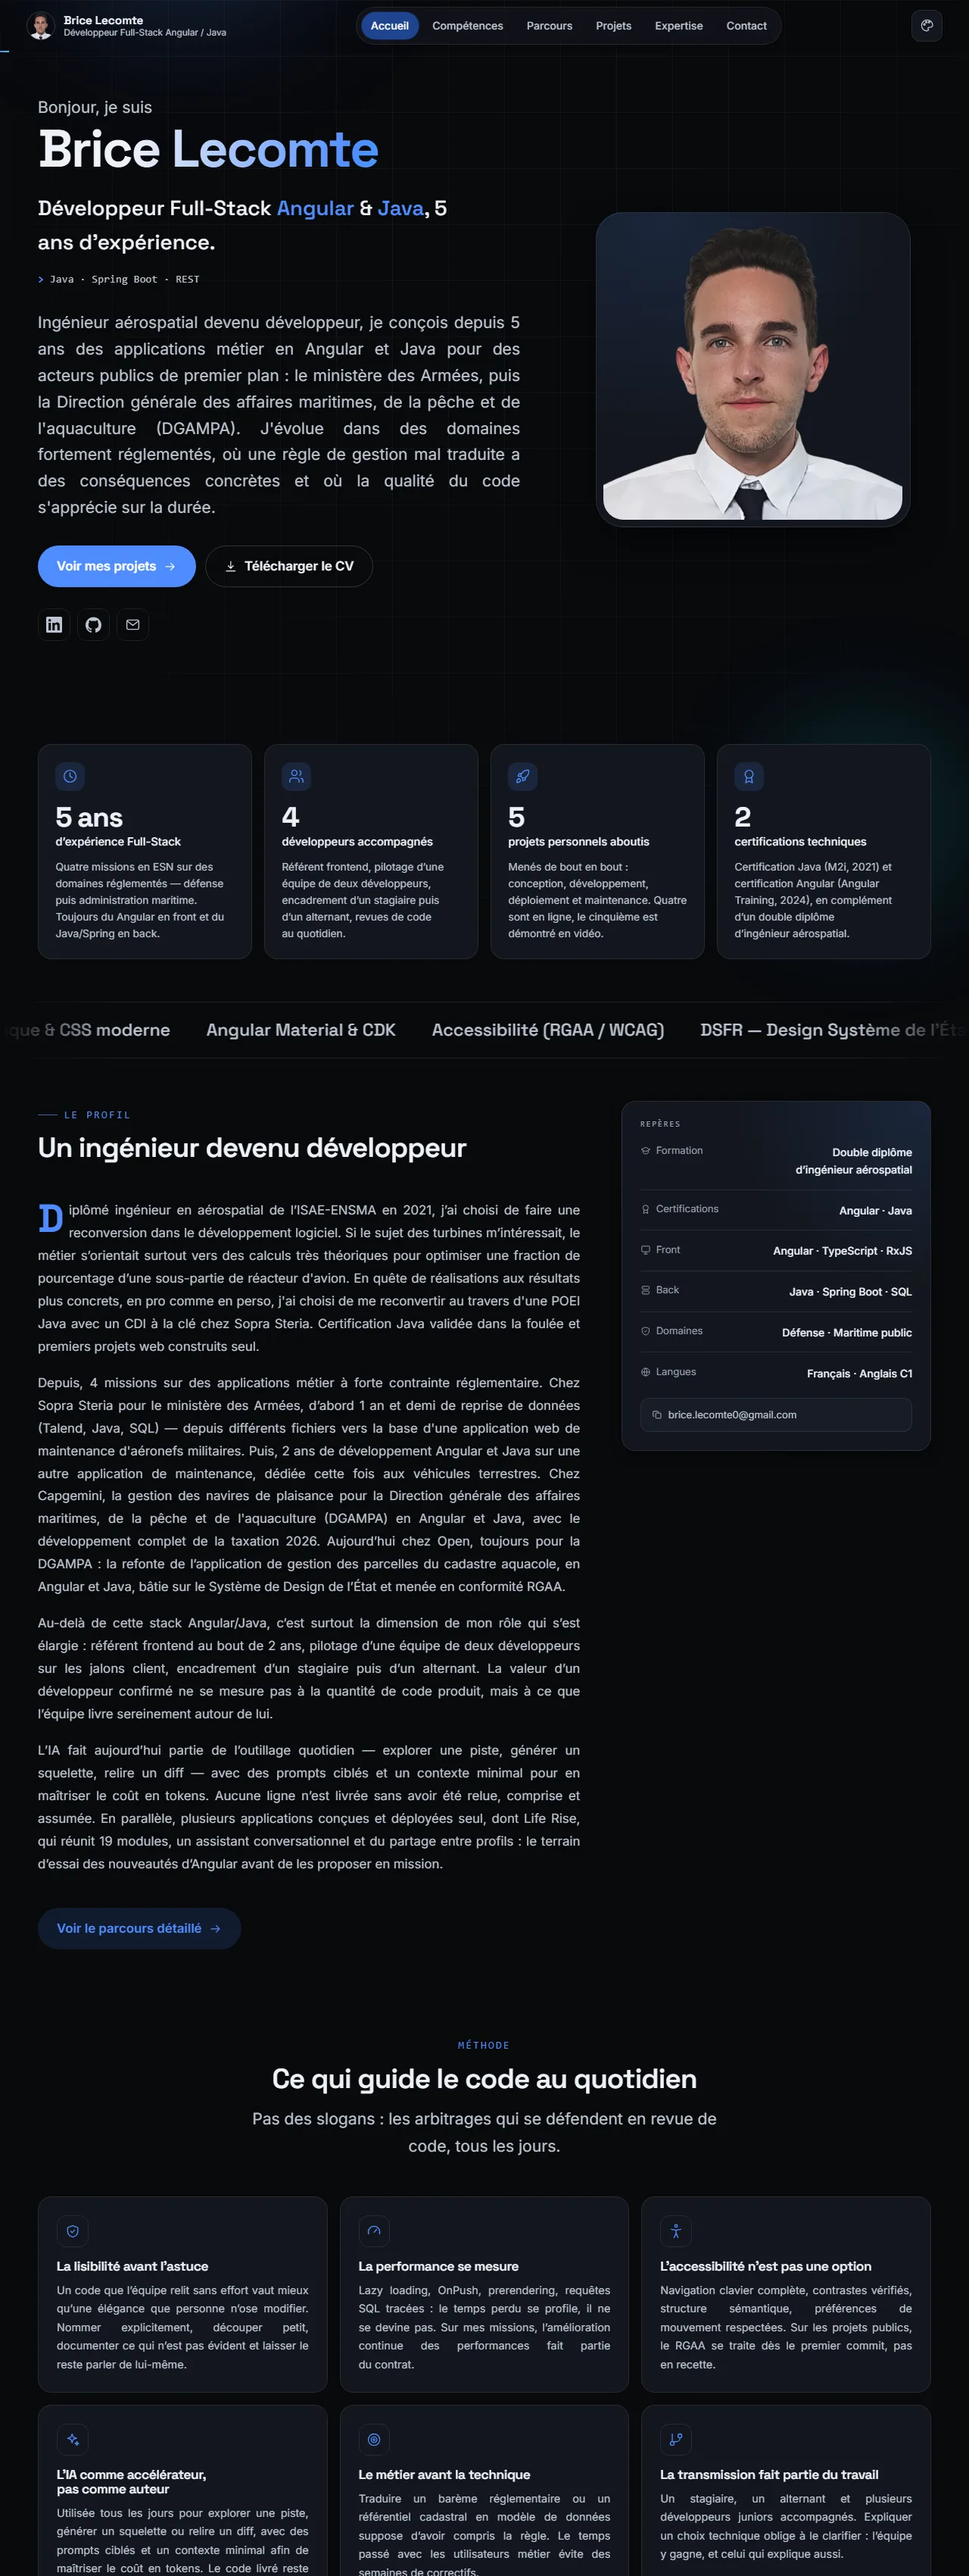
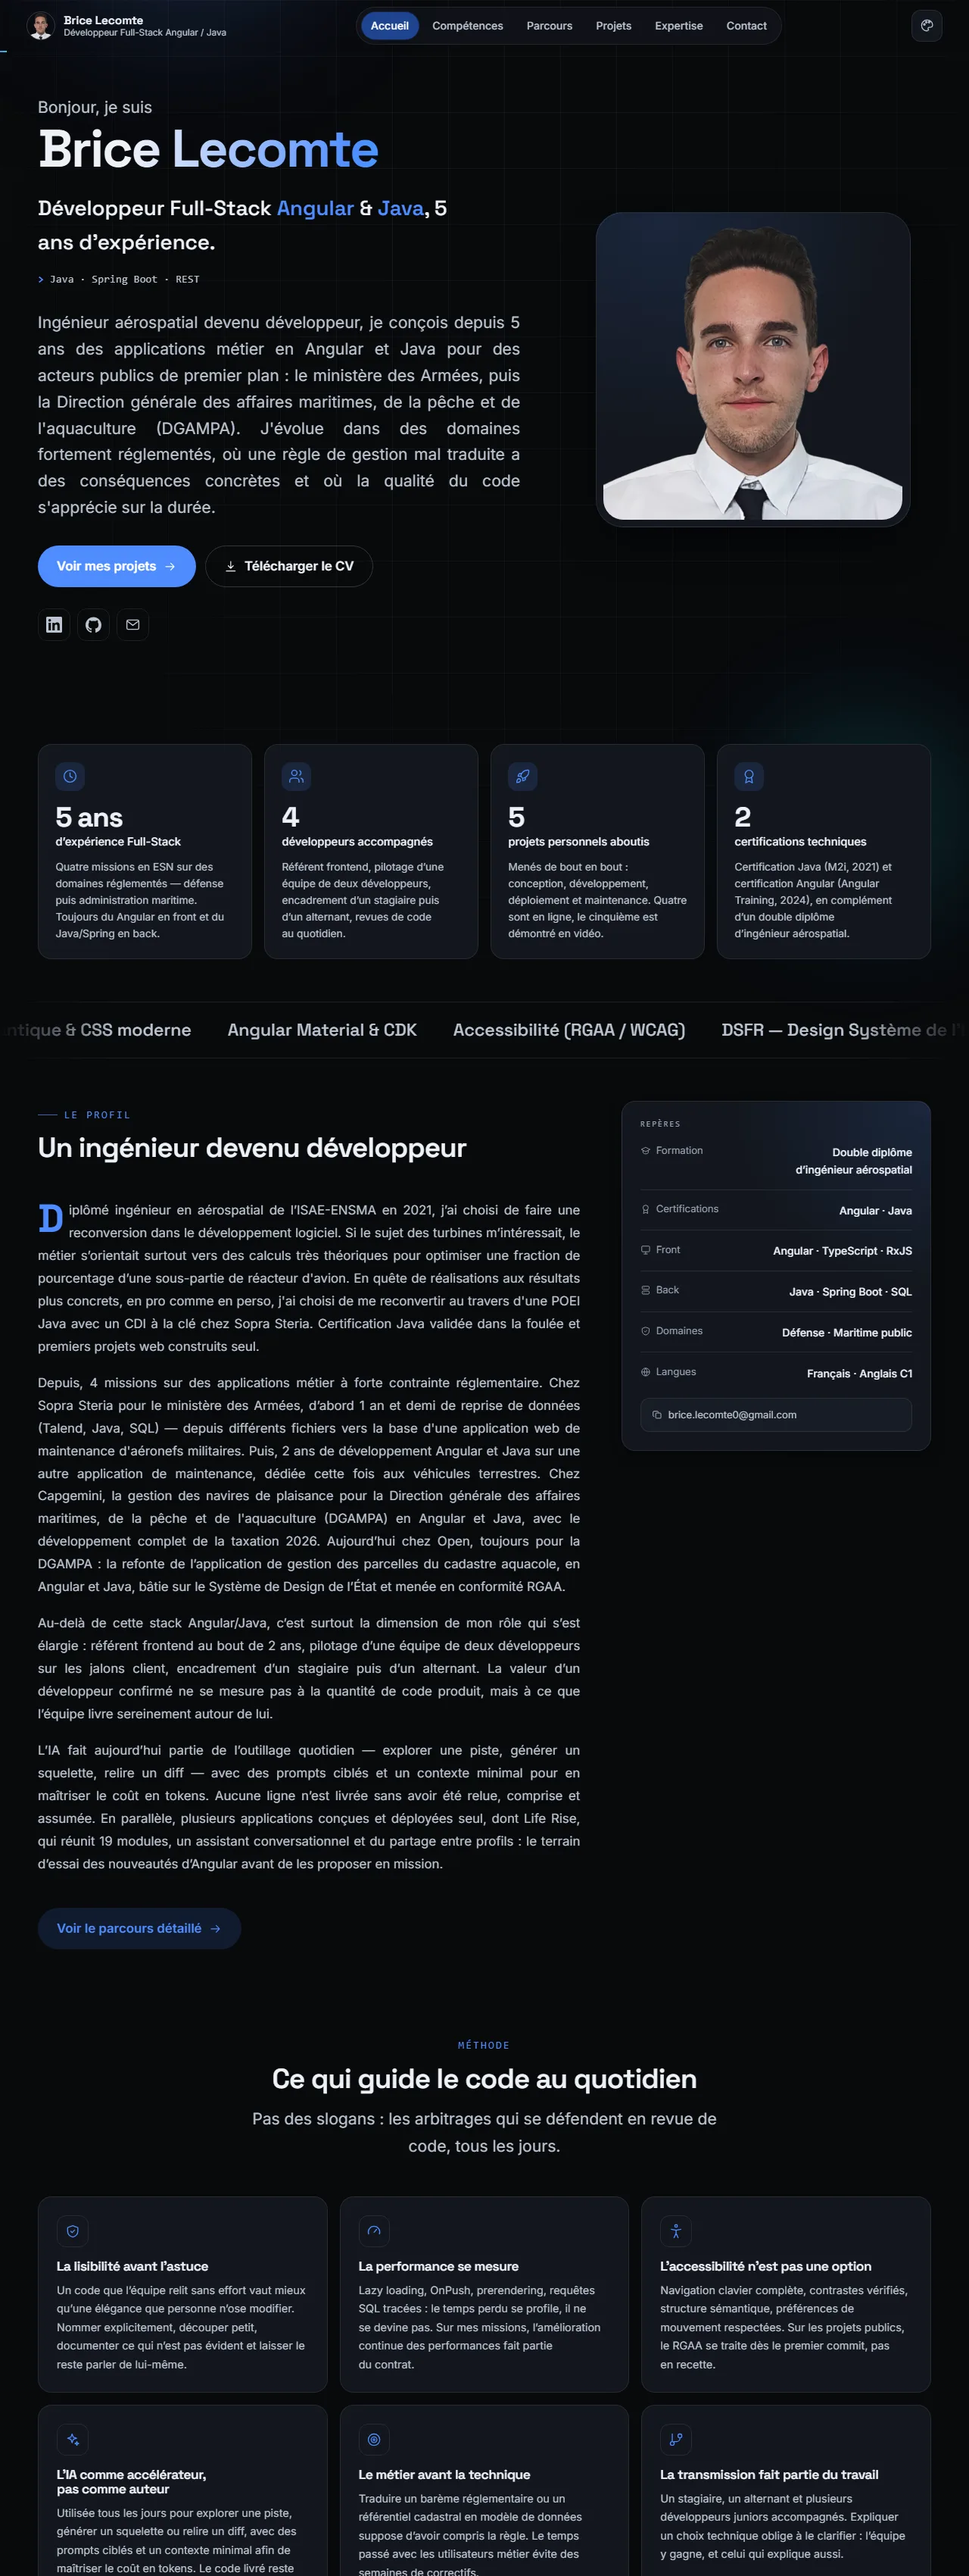
Rend les descriptions de compétences lisibles par un non-technicien
Chaque note commence désormais par ce que la technologie fait, en
français courant, avant d'énumérer les mots-clés que recherche un
lecteur technique. Les intitulés des familles suivent la même logique.
La longueur reste comparable : la page ne gagne qu'une cinquantaine
de pixels.

Corrige au passage une justification appliquée trop largement : dans
les cartes étroites — convictions, pratiques, bagage, expertise — elle
creusait des rivières. Elle ne subsiste que sur les colonnes de prose
assez larges pour la supporter.

diff --git a/src/app/shared/data/skills.ts b/src/app/shared/data/skills.ts
@@ -6,42 +6,42 @@ export const skillGroups: SkillGroup[] = [
     title: 'Frontend',
     icon: 'monitor',
     description:
-      'Mon terrain principal. Angular depuis la version 12, suivi de près à chaque montée de version majeure : standalone components, signals, control flow, zoneless.',
+      'Tout ce que l’utilisateur voit et manipule dans son navigateur. Angular depuis sa version 12, suivi à chaque montée de version majeure : standalone components, signals, control flow, zoneless.',
     skills: [
       {
         name: 'Angular',
         level: 95,
-        note: 'Architecture par features, lazy loading, standalone components, signals, formulaires réactifs typés, stratégie OnPush systématique, SSR et prerendering.',
+        note: 'Le socle de toutes les interfaces que je livre : application découpée en modules chargés à la demande, pages pré-générées pour un affichage immédiat, état géré finement. Lazy loading, standalone components, signals, formulaires typés, OnPush, SSR.',
       },
       {
         name: 'TypeScript',
         level: 92,
-        note: 'Mode strict activé partout, types utilitaires, génériques, discriminated unions. Je considère un `any` comme une dette à justifier.',
+        note: 'JavaScript avec un filet de sécurité : les erreurs de données apparaissent pendant l’écriture du code plutôt qu’en production. Mode strict partout, génériques, types utilitaires.',
       },
       {
         name: 'RxJS',
         level: 85,
-        note: 'Composition d’opérateurs, gestion des désabonnements, debounce et switchMap sur les recherches, interopérabilité avec les signals.',
+        note: 'La bibliothèque qui met de l’ordre dans tout ce qui arrive de façon décalée : réponse du serveur, saisie clavier, clic. Composition d’opérateurs, recherche temporisée, désabonnements maîtrisés.',
       },
       {
         name: 'HTML sémantique & CSS moderne',
         level: 90,
-        note: 'Grid et flexbox, custom properties, container queries, clamp fluide, animations CSS. Un balisage juste avant tout artifice.',
+        note: 'La structure et l’habillage des pages, écrits à la main. Un balisage qui décrit d’abord le sens du contenu, l’effet visuel ensuite. Grid, flexbox, variables CSS, container queries, animations.',
       },
       {
         name: 'Angular Material & CDK',
         level: 88,
-        note: 'Theming Material 3, tokens système, surcharge maîtrisée des composants, CDK pour l’overlay, le focus trap et la virtualisation.',
+        note: 'La bibliothèque de composants d’interface de Google, adaptée à la charte de chaque projet plutôt qu’utilisée telle quelle. Theming Material 3, surcharges maîtrisées, CDK pour l’overlay et le drag and drop.',
       },
       {
         name: 'Accessibilité (RGAA / WCAG)',
         level: 78,
-        note: 'Parcours clavier complet, rôles ARIA quand le HTML ne suffit pas, contrastes vérifiés, respect de prefers-reduced-motion.',
+        note: 'Rendre l’application utilisable par tous, y compris au clavier seul ou au lecteur d’écran — une obligation légale sur les projets publics. Parcours clavier, rôles ARIA, contrastes vérifiés, préférences de mouvement respectées.',
       },
       {
         name: 'DSFR — Design Système de l’État',
         level: 75,
-        note: 'Intégration du référentiel imposé aux services publics : composants, typographie, contrastes et motifs d’interaction conformes, sans réinventer ce qui existe.',
+        note: 'Le système de design imposé aux sites de l’État : composants, typographies et couleurs officiels, à intégrer sans les réinventer. Il garantit la cohérence avec les autres services publics.',
       },
     ],
   },
@@ -50,32 +50,32 @@ export const skillGroups: SkillGroup[] = [
     title: 'Backend',
     icon: 'server',
     description:
-      'Java et Spring Boot au quotidien depuis 2021, sur des applications métier avec de vraies contraintes de volumétrie et de règles de gestion.',
+      'La partie invisible, celle qui calcule, vérifie et enregistre. Java et Spring Boot au quotidien depuis 2021, sur des applications métier aux vraies contraintes de volume et de règles de gestion.',
     skills: [
       {
         name: 'Java',
         level: 88,
-        note: 'Java 8 à 21, streams, Optional, records. Certification Java obtenue en 2021 au démarrage de la reconversion.',
+        note: 'Le langage du serveur, référence des grands systèmes d’entreprise pour sa fiabilité. Versions 8 à 21, streams, Optional, records. Certification obtenue en 2021, au démarrage de la reconversion.',
       },
       {
         name: 'Spring Boot',
         level: 87,
-        note: 'API REST, injection de dépendances, Spring Data JPA, Spring Security, validation, gestion centralisée des erreurs.',
+        note: 'Le cadre qui structure une application Java : sécurité, accès aux données, exposition des services. API REST, Spring Data JPA, Spring Security, validation, gestion centralisée des erreurs.',
       },
       {
         name: 'Conception d’API REST',
         level: 84,
-        note: 'Ressources cohérentes, pagination, codes de statut justes, contrats stables et documentés entre front et back.',
+        note: 'Le contrat par lequel l’interface et le serveur se parlent : quelles données, sous quelle forme, quelle réponse en cas d’erreur. Ressources cohérentes, pagination, codes de statut justes, contrats documentés.',
       },
       {
         name: 'Hibernate / JPA',
-        level: 80,
-        note: 'Mapping relationnel, requêtes JPQL et natives, chasse aux N+1, choix explicite des stratégies de chargement.',
+        level: 75,
+        note: 'Le pont entre le code Java et la base de données, qui évite d’écrire du SQL à la main partout. Mapping relationnel, requêtes JPQL et natives, stratégies de chargement choisies explicitement.',
       },
       {
         name: 'Tests & qualité',
-        level: 76,
-        note: 'JUnit, Mockito, tests d’intégration sur les couches de service. Le test qui documente le comportement vaut le test qui couvre la ligne.',
+        level: 82,
+        note: 'Des vérifications automatiques rejouées à chaque modification, qui signalent une régression avant les utilisateurs. JUnit, Mockito, tests d’intégration sur les couches de service.',
       },
     ],
   },
@@ -84,22 +84,22 @@ export const skillGroups: SkillGroup[] = [
     title: 'Données',
     icon: 'database',
     description:
-      'Des bases relationnelles de production, avec des schémas hérités qu’il faut comprendre avant de vouloir les corriger.',
+      'Là où vivent les données de l’application. Des bases en production, souvent héritées, qu’il faut comprendre avant de vouloir les corriger.',
     skills: [
       {
         name: 'PostgreSQL',
         level: 82,
-        note: 'Modélisation, index, jointures complexes, analyse de plans d’exécution pour lever les points de contention.',
+        note: 'La base de données relationnelle libre la plus répandue. Modélisation, index, jointures complexes, et analyse des requêtes lentes pour retrouver de la vitesse.',
       },
       {
         name: 'Oracle',
-        level: 78,
-        note: 'Environnements grands comptes, PL/SQL, procédures stockées existantes à faire évoluer sans casser l’historique.',
+        level: 72,
+        note: 'La base historique des grands comptes, rencontrée sur mes missions du secteur public. PL/SQL et procédures stockées existantes, à faire évoluer sans casser l’historique.',
       },
       {
         name: 'Firebase',
-        level: 75,
-        note: 'Firestore, Authentication et Hosting sur mes projets personnels : le bon outil quand il faut livrer vite et seul.',
+        level: 85,
+        note: 'L’ensemble Google qui fournit base de données, authentification et hébergement clés en main. Firestore, Authentication et Hosting : le bon choix pour livrer vite et seul.',
       },
     ],
   },
@@ -113,27 +113,27 @@ export const skillGroups: SkillGroup[] = [
       {
         name: 'Git (GitHub, GitLab)',
         level: 90,
-        note: 'Branches courtes, commits atomiques et lisibles, rebase propre avant merge, revues de code exigeantes mais bienveillantes.',
+        note: 'L’outil qui conserve l’historique du code et permet à plusieurs développeurs d’avancer sans se gêner. Branches courtes, commits lisibles, rebase propre avant fusion, revues de code.',
       },
       {
         name: 'IntelliJ IDEA & VS Code',
         level: 88,
-        note: 'IntelliJ pour le Java, VS Code pour le front. Refactorings outillés plutôt que rechercher-remplacer.',
+        note: 'Les deux environnements dans lesquels j’écris : IntelliJ pour le Java, VS Code pour le front. Renommages et réorganisations outillés plutôt que rechercher-remplacer.',
       },
       {
         name: 'CI/CD & déploiement',
-        level: 72,
-        note: 'Pipelines GitLab CI, builds automatisés, déploiement continu sur Firebase Hosting pour mes projets.',
+        level: 65,
+        note: 'L’automatisation qui teste et met en ligne l’application à chaque modification, sans manipulation manuelle. Pipelines GitLab CI, builds automatisés, déploiement continu sur Firebase Hosting.',
       },
       {
         name: 'IA générative',
         level: 82,
-        note: 'Usage quotidien pour explorer une piste, produire un squelette ou relire un diff. Prompts ciblés et contexte minimal pour maîtriser le coût en tokens ; aucune ligne livrée sans relecture.',
+        note: 'Un outil de travail quotidien : explorer une piste, produire un premier squelette, relire une modification. Prompts ciblés et contexte minimal pour en maîtriser le coût, aucune ligne livrée sans relecture.',
       },
       {
         name: 'Agilité',
         level: 80,
-        note: 'Sprints, daily, refinement, démonstrations client. Estimer honnêtement et tenir les jalons annoncés.',
+        note: 'La méthode d’organisation de toutes mes missions : livrer par cycles courts plutôt qu’en une seule fois. Sprints, daily, refinement, démonstrations client, estimations tenues.',
       },
     ],
   },

diff --git a/src/app/expertise/expertise.component.html b/src/app/expertise/expertise.component.html
@@ -17,7 +17,7 @@
         </span>
 
         <h2>{{ offer.title }}</h2>
-        <p class="pitch justified">{{ offer.pitch }}</p>
+        <p class="pitch">{{ offer.pitch }}</p>
 
         <ul class="deliverables">
           @for (item of offer.deliverables; track item) {
@@ -46,7 +46,7 @@
         <app-icon [name]="point.icon" size="1.2em" />
         <div>
           <h3>{{ point.title }}</h3>
-          <p class="justified">{{ point.text }}</p>
+          <p>{{ point.text }}</p>
         </div>
       </li>
     }

diff --git a/src/styles.scss b/src/styles.scss
@@ -334,8 +334,9 @@ ol {
   color: var(--text-muted);
 }
 
-/* Texte long en pavé justifié. La césure s'appuie sur le `lang="fr"` du
-   document, sans quoi la justification creuserait des rivières. */
+/* Texte long en pavé justifié. À réserver aux colonnes larges : sur une carte
+   étroite, la justification creuse des rivières. La césure s'appuie sur le
+   `lang="fr"` du document. */
 .justified {
   text-align: justify;
   text-wrap: pretty;

diff --git a/src/app/home/home.component.html b/src/app/home/home.component.html
@@ -25,7 +25,7 @@
           <app-icon [name]="principle.icon" size="1.2em" />
         </span>
         <h3>{{ principle.title }}</h3>
-        <p class="justified">{{ principle.description }}</p>
+        <p>{{ principle.description }}</p>
       </li>
     }
   </ul>

diff --git a/src/app/skills/skills.component.html b/src/app/skills/skills.component.html
@@ -80,7 +80,7 @@
           <app-icon [name]="practice.icon" size="1.15em" />
         </span>
         <h3>{{ practice.title }}</h3>
-        <p class="justified">{{ practice.description }}</p>
+        <p>{{ practice.description }}</p>
       </li>
     }
   </ul>

diff --git a/src/app/journey/journey.component.html b/src/app/journey/journey.component.html
@@ -65,7 +65,7 @@
           <app-icon [name]="strength.icon" size="1.2em" />
         </span>
         <h3>{{ strength.title }}</h3>
-        <p class="justified">{{ strength.description }}</p>
+        <p>{{ strength.description }}</p>
       </li>
     }
   </ul>
